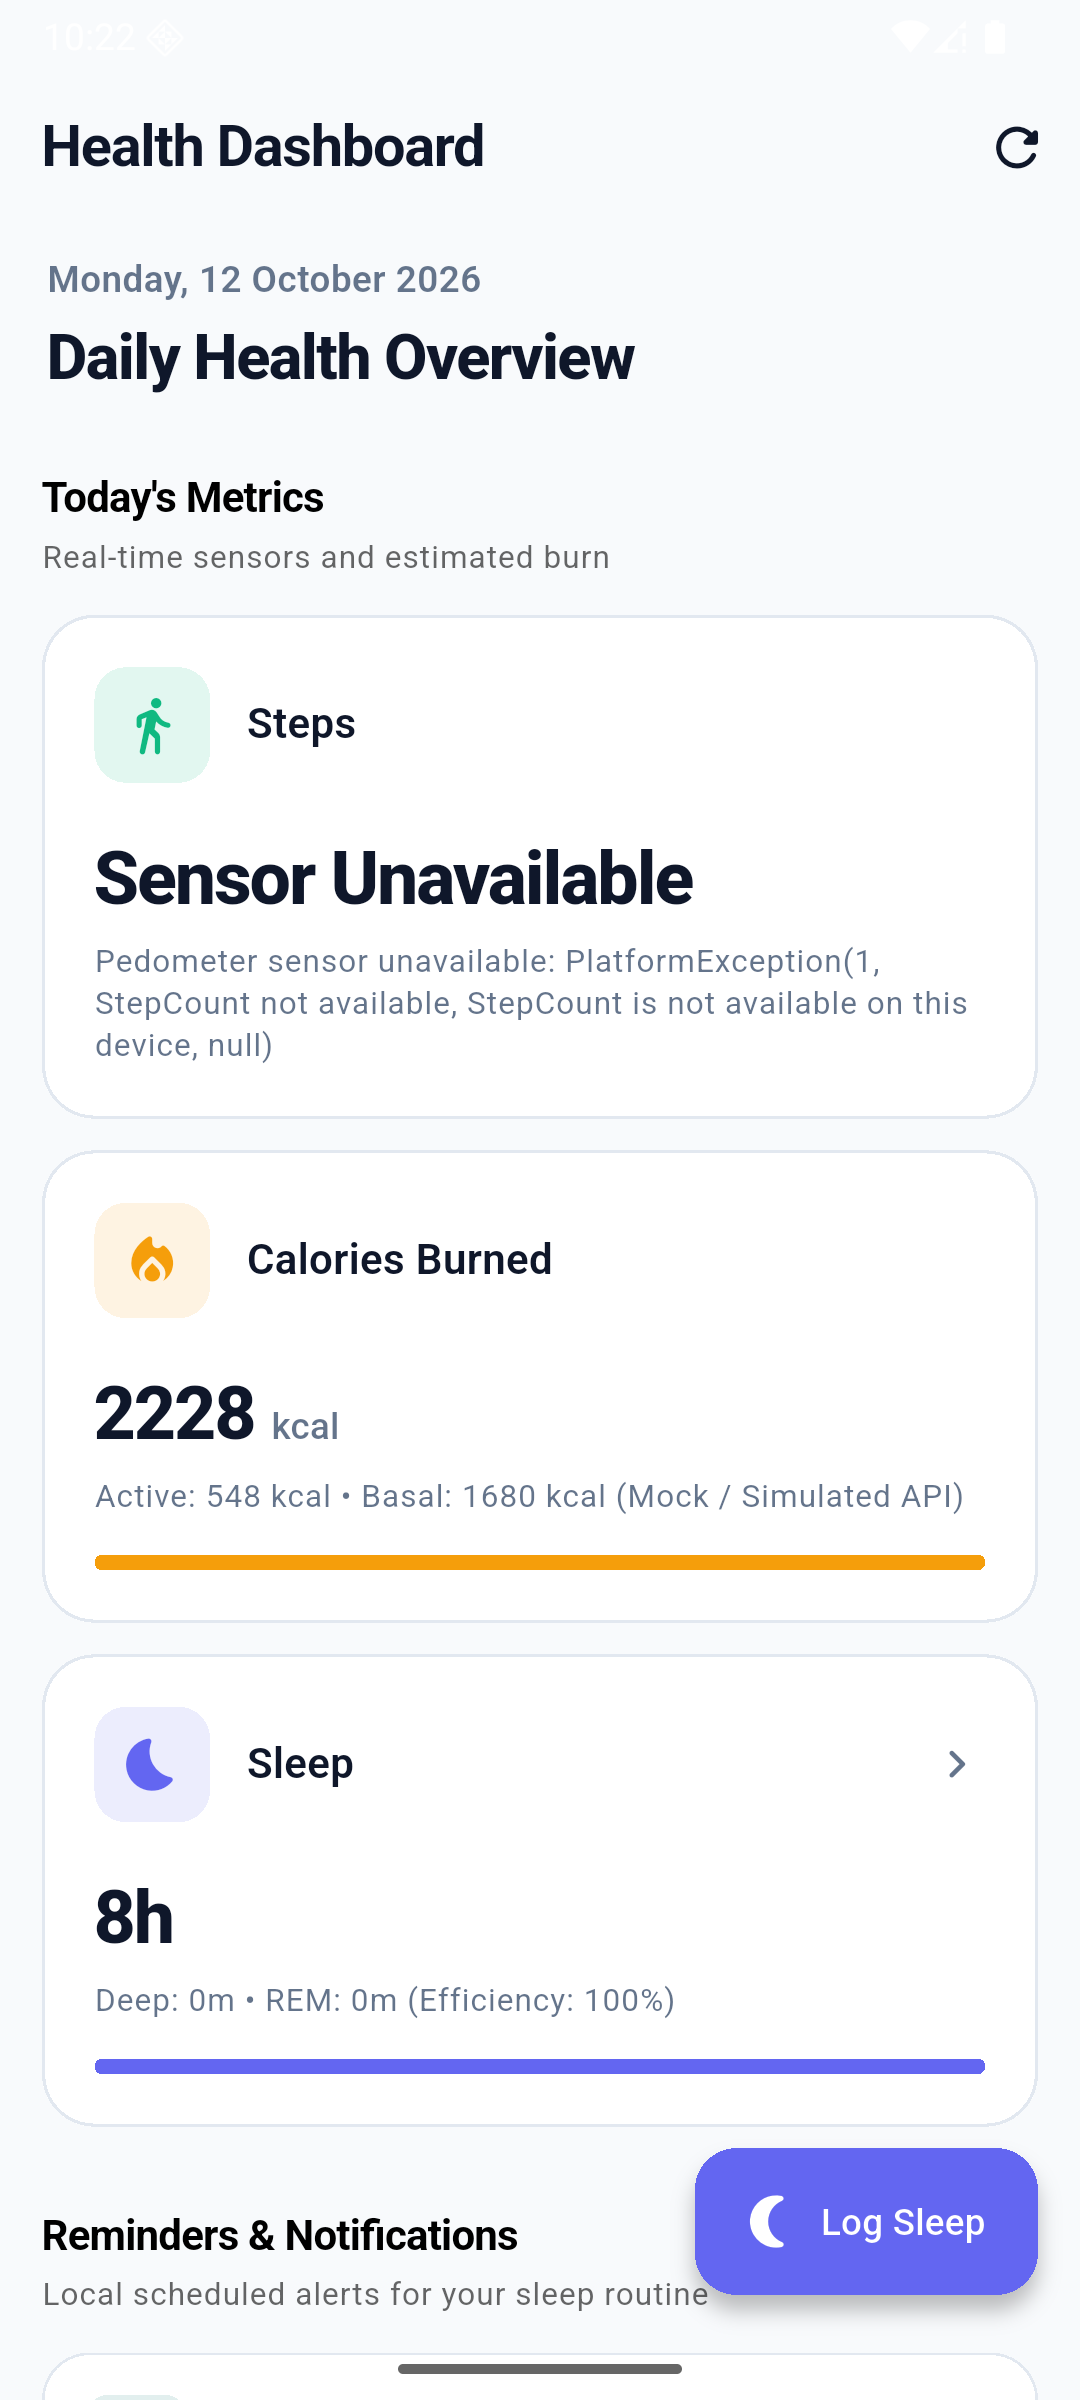
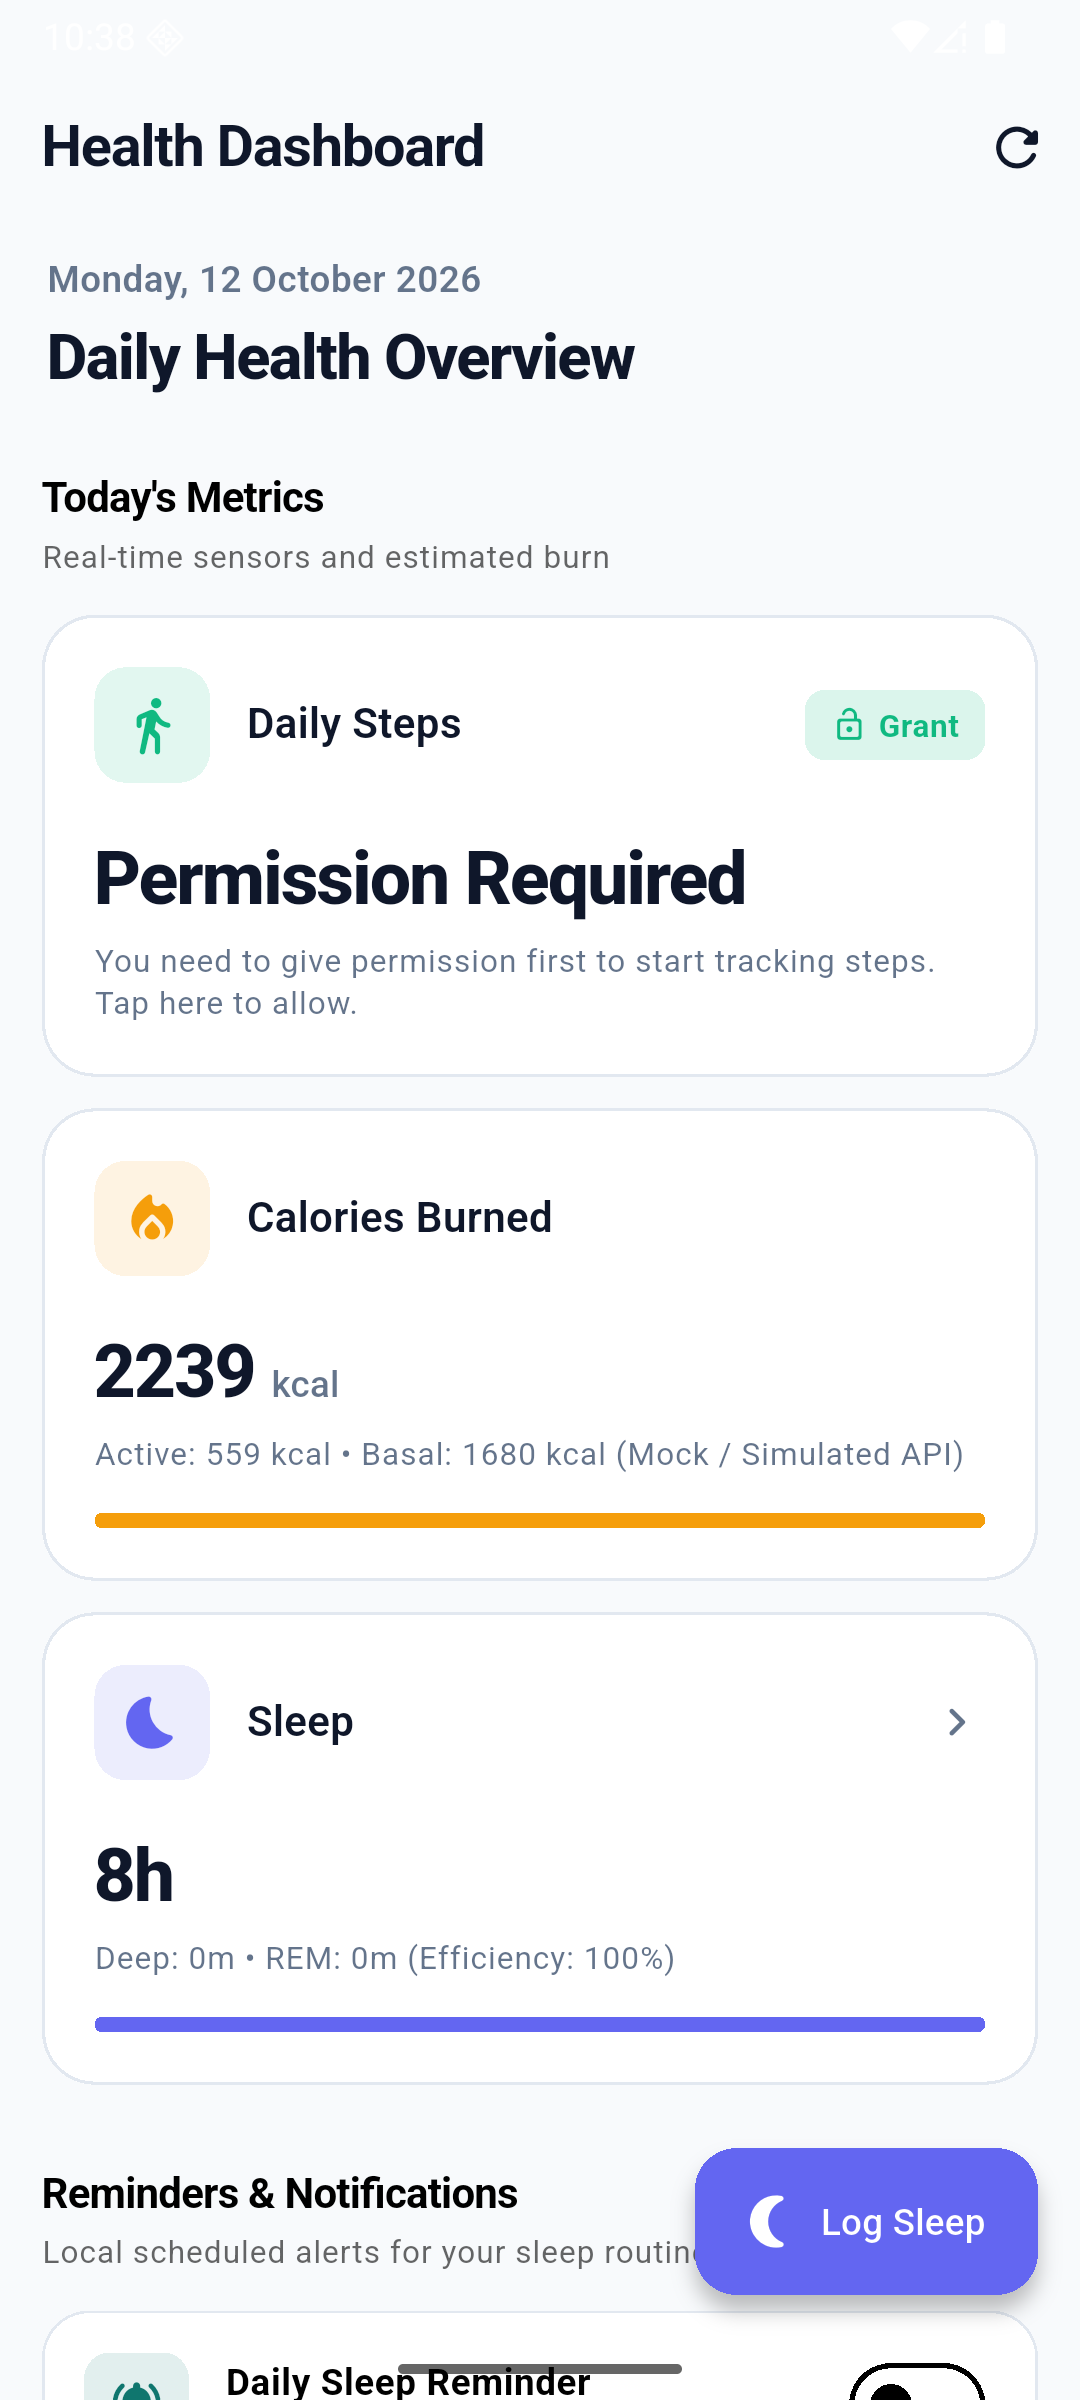
feat: prompt for physical activity permission before starting steps tracking

diff --git a/lib/features/dashboard/presentation/pages/dashboard_page.dart b/lib/features/dashboard/presentation/pages/dashboard_page.dart
@@ -185,10 +185,12 @@ class _DashboardPageState extends State<DashboardPage> {
           return MetricCard(
             icon: Icons.directions_walk_rounded,
             iconColor: AppColors.steps,
-            title: 'Steps',
+            title: 'Daily Steps',
             value: 'Permission Required',
             unit: '',
-            subtitle: 'Tap to grant physical activity permission',
+            subtitle: state.isPermanentlyDenied
+                ? 'You need to give permission in App Settings to start tracking steps. Tap to open Settings.'
+                : 'You need to give permission first to start tracking steps. Tap here to allow.',
             onTap: () {
               if (state.isPermanentlyDenied) {
                 context.read<StepsCubit>().openAppSettings();
@@ -196,7 +198,32 @@ class _DashboardPageState extends State<DashboardPage> {
                 context.read<StepsCubit>().requestPermission();
               }
             },
-            trailing: const Icon(Icons.lock_outline_rounded, color: AppColors.steps),
+            trailing: Container(
+              padding: const EdgeInsets.symmetric(horizontal: 10, vertical: 5),
+              decoration: BoxDecoration(
+                color: AppColors.steps.withValues(alpha: 0.15),
+                borderRadius: BorderRadius.circular(8),
+              ),
+              child: Row(
+                mainAxisSize: MainAxisSize.min,
+                children: [
+                  Icon(
+                    state.isPermanentlyDenied ? Icons.settings_rounded : Icons.lock_open_rounded,
+                    size: 14,
+                    color: AppColors.steps,
+                  ),
+                  const SizedBox(width: 4),
+                  Text(
+                    state.isPermanentlyDenied ? 'Settings' : 'Grant',
+                    style: const TextStyle(
+                      color: AppColors.steps,
+                      fontWeight: FontWeight.bold,
+                      fontSize: 12,
+                    ),
+                  ),
+                ],
+              ),
+            ),
           );
         }
 
@@ -204,10 +231,13 @@ class _DashboardPageState extends State<DashboardPage> {
           return MetricCard(
             icon: Icons.directions_walk_rounded,
             iconColor: AppColors.steps,
-            title: 'Steps',
-            value: 'Sensor Unavailable',
-            unit: '',
-            subtitle: state.message,
+            title: 'Daily Steps',
+            value: '0',
+            unit: 'steps',
+            subtitle: 'Hardware sensor inactive on emulator. Steps track automatically on physical device.',
+            onTap: () {
+              context.read<StepsCubit>().requestPermission();
+            },
           );
         }
 
@@ -217,7 +247,7 @@ class _DashboardPageState extends State<DashboardPage> {
         return MetricCard(
           icon: Icons.directions_walk_rounded,
           iconColor: AppColors.steps,
-          title: 'Steps',
+          title: 'Daily Steps',
           value: steps.toString(),
           unit: 'steps',
           subtitle: 'Goal: ${AppConstants.defaultDailyStepGoal} steps',
